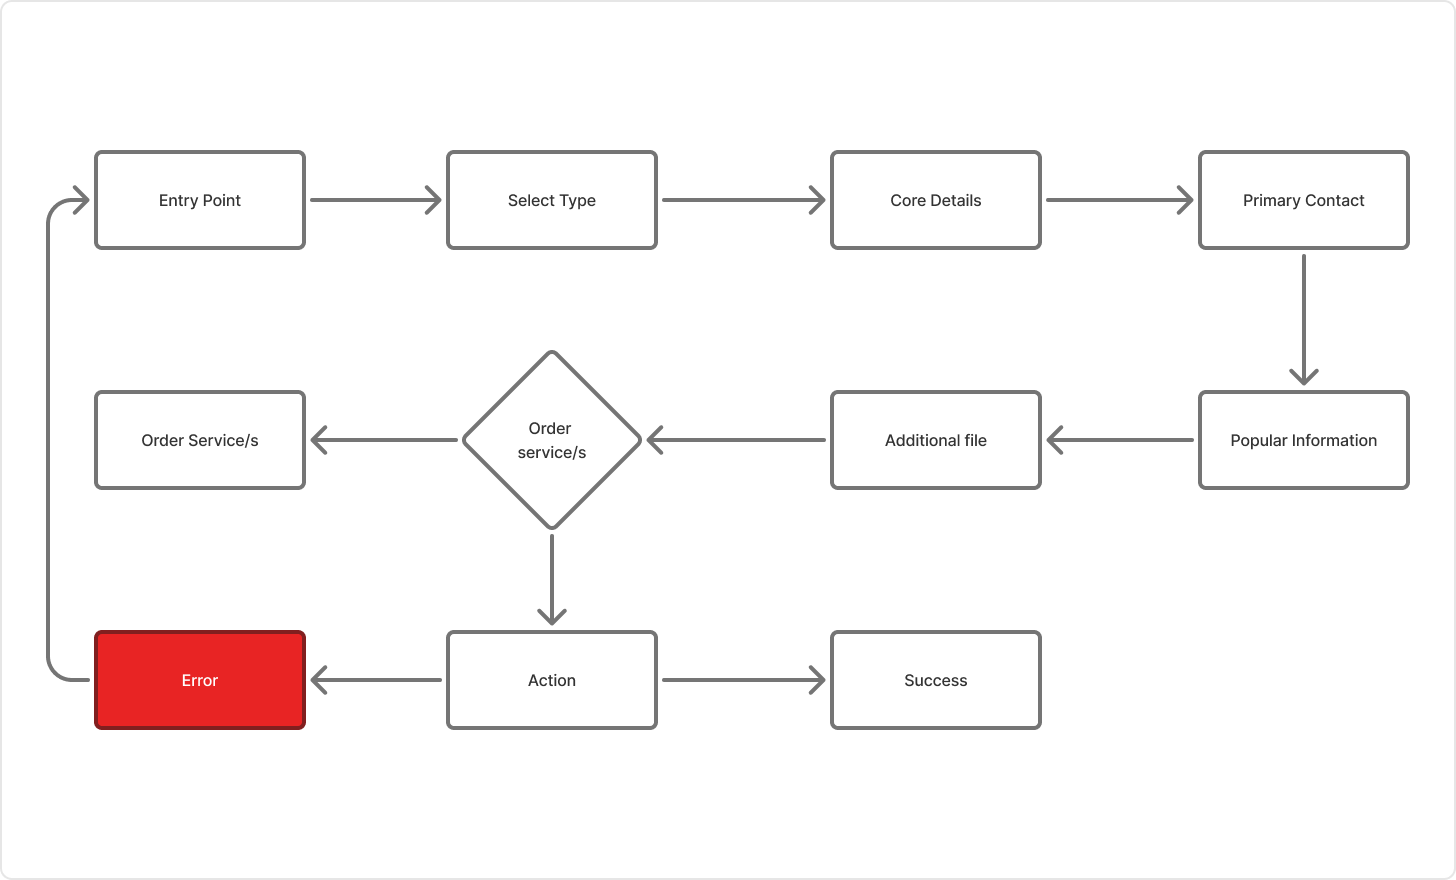
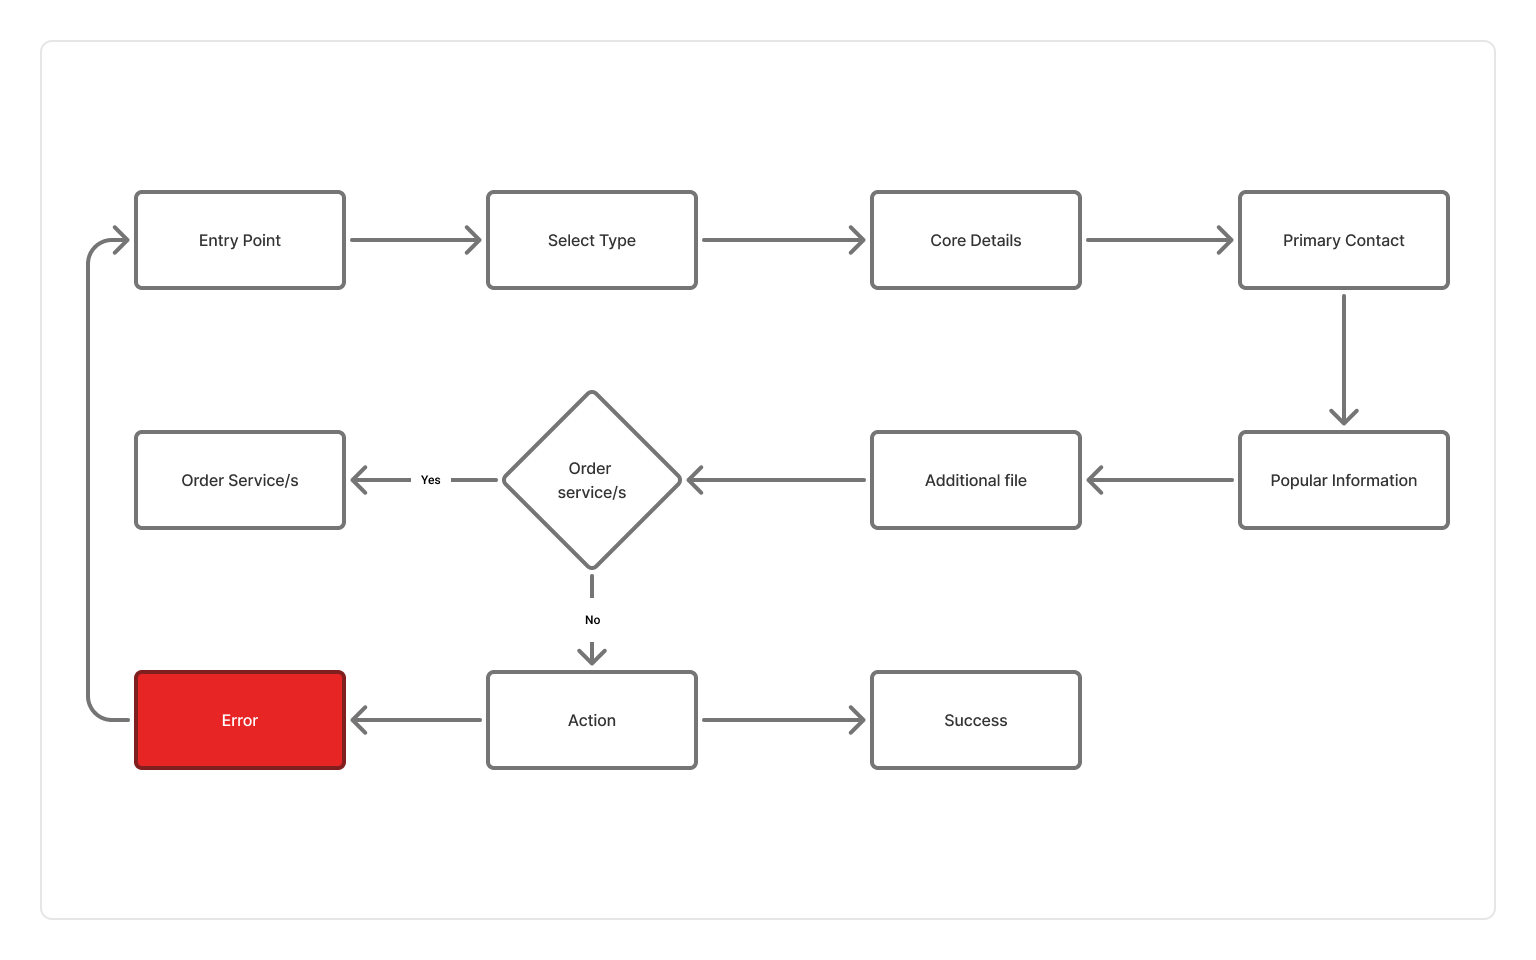
23/10/2

diff --git a/src/pages/DesignSystemProjectPage.tsx b/src/pages/DesignSystemProjectPage.tsx
@@ -12,9 +12,9 @@ interface DesignSystemProjectPageProps {
 }
 
 const projectFacts = [
-  ['My role', 'Product design · system definition'],
-  ['In collaboration', 'Cross-functional partners'],
-  ['Timeframe', 'Ongoing system evolution'],
+  ['My role', 'Created a design system for the entire platform'],
+  ['In collaboration', 'Design manager and development team'],
+  ['Timeframe', '2 months'],
   ['Focus', 'Design systems · Components · Iconography'],
 ];
 
@@ -120,9 +120,16 @@ export const DesignSystemProjectPage: React.FC<DesignSystemProjectPageProps> = (
         </div>
         <div className="space-y-6">
           <p className="max-w-2xl text-lg leading-relaxed text-slate-600 md:text-xl">
-            As products grow, small inconsistencies compound: similar controls behave differently, teams repeat design decisions, and one-off fixes become design debt. The system establishes shared foundations and reusable patterns so teams can ship coherent experiences without slowing down delivery. Its goal is consistency with enough flexibility for distinct workflow needs.
+            I created a design system for the entire platform so its screens and workflows could stay visually consistent. I collaborated with the design manager and development team to define shared foundations and reusable patterns that fit the platform’s needs.
           </p>
-          <MediaPlaceholder label="Project context and challenge" className="aspect-[16/10]" />
+      <figure className="overflow-hidden rounded-2xl border border-slate-200 bg-white">
+        <img
+          src="/projects/design-system-components.png"
+          alt="Design system component library showing radio buttons, checkboxes, switches, form fields, dropdowns, calendars, and button states."
+          loading="lazy"
+          className="block h-auto w-full"
+        />
+      </figure>
         </div>
       </div>
     </SectionReveal>
@@ -135,7 +142,7 @@ export const DesignSystemProjectPage: React.FC<DesignSystemProjectPageProps> = (
         </div>
         <div>
           <p className="mb-8 max-w-2xl text-lg leading-relaxed text-slate-600 md:text-xl">
-            The system prioritizes common, high-frequency interface needs and makes the rules behind reuse explicit. Foundations create a shared visual language; component guidance covers behavior and states; icon rules keep meaning and visual weight consistent. Reuse speeds up delivery and review, while documented exceptions prevent the system from forcing a poor fit.
+            Over two months, I worked with the design manager and development team to establish the system’s foundations, reusable components, and icon rules. The shared color, type, spacing, hierarchy, and component states give the full platform a consistent visual language while supporting its different workflows.
           </p>
           <div className="divide-y divide-slate-200 border-y border-slate-200">
             {approachItems.map(([number, title, description]) => (
@@ -161,7 +168,7 @@ export const DesignSystemProjectPage: React.FC<DesignSystemProjectPageProps> = (
         </div>
         <div className="space-y-5">
           <p className="max-w-2xl text-lg leading-relaxed text-slate-600 md:text-xl">
-            A shared foundation makes hierarchy and interaction patterns more predictable across product areas. Designers can focus effort on workflow-specific problems, while developers have clearer references for expected states. Consistent components also make omissions and edge cases easier to spot during review.
+            The system brings the platform’s visual and interaction patterns into one consistent foundation. Reusable components and documented states give designers and developers a shared reference as they work on product-specific needs.
           </p>
           <MediaPlaceholder label="The system applied in context" className="aspect-[16/10]" />
         </div>
@@ -176,7 +183,7 @@ export const DesignSystemProjectPage: React.FC<DesignSystemProjectPageProps> = (
         </div>
         <div>
           <p className="mb-8 max-w-2xl text-lg leading-relaxed text-slate-600 md:text-xl">
-            The system is intended to reduce repeat decisions and visual drift by making the common path easy to reuse. Its value comes from adoption, clear ownership, and regular maintenance—not from the component library alone.
+            The platform-wide system gives the design and development teams a consistent starting point for product work. Shared foundations and reusable components reduce the need to redefine patterns from one area of the platform to another.
           </p>
           <div className="grid gap-4 md:grid-cols-3">
             {outcomeItems.map(([title, description]) => (

diff --git a/src/components/ContactSection.tsx b/src/components/ContactSection.tsx
@@ -8,27 +8,21 @@ interface ContactSectionProps {
 export const ContactSection: React.FC<ContactSectionProps> = ({ onOpenChat }) => (
   <section
     id="contact"
-    className="sticky top-0 z-10 mx-auto flex w-[calc(100%-24px)] max-w-[calc(72rem-24px)] flex-col justify-start gap-8 px-6 pt-0 pb-24 [container-type:inline-size] sm:gap-10 sm:px-10 sm:pt-0 sm:pb-28 lg:gap-12 lg:px-16 lg:pt-0 lg:pb-32"
+    className="group sticky top-0 z-10 mx-auto flex w-[calc(100%-24px)] max-w-[calc(72rem-24px)] flex-col justify-start gap-8 px-6 pt-0 pb-24 [container-type:inline-size] sm:gap-10 sm:px-10 sm:pt-0 sm:pb-28 lg:gap-12 lg:px-16 lg:pt-0 lg:pb-32"
   >
-    <div className="-translate-y-2 flex items-center justify-between gap-4">
-      <h2 className="m-0 min-w-0 flex-1 whitespace-nowrap text-[clamp(2rem,13.5cqw,9.5rem)] font-black leading-[0.82] tracking-[-0.04em] text-[#111111]">
-        <button
-          type="button"
-          onClick={onOpenChat}
-          aria-label="Open Let’s talk chat"
-          className="whitespace-nowrap border-0 bg-transparent p-0 text-left font-semibold cursor-pointer no-underline transition-colors duration-200 hover:text-neutral-800"
-        >
-          Let’s talk
-        </button>
+    <div className="pointer-events-none -translate-y-2 flex items-center justify-between gap-4">
+      <h2 className="m-0 min-w-0 flex-1 whitespace-nowrap text-[clamp(2rem,13.5cqw,9.5rem)] font-black leading-[0.82] tracking-[-0.04em] text-[#111111] transition-colors duration-200 group-hover:text-neutral-800">
+        Let’s talk
       </h2>
-      <button
-        type="button"
-        onClick={onOpenChat}
-        aria-label="Open Let’s talk chat"
-        className="inline-flex shrink-0 border-0 bg-transparent p-0 text-[#111111] transition-transform hover:translate-x-1 hover:-translate-y-1"
-      >
+      <span className="inline-flex shrink-0 text-[#111111] transition-transform group-hover:translate-x-1 group-hover:-translate-y-1">
         <ArrowUpRight className="h-10 w-10 stroke-[1.5] sm:h-14 sm:w-14 lg:h-16 lg:w-16 2xl:h-20 2xl:w-20" aria-hidden="true" />
-      </button>
+      </span>
     </div>
+    <button
+      type="button"
+      onClick={onOpenChat}
+      aria-label="Open Let’s talk chat"
+      className="absolute inset-0 z-20 cursor-pointer rounded-xl focus-visible:outline-2 focus-visible:outline-offset-4 focus-visible:outline-[#2b35ee]"
+    />
   </section>
 );

diff --git a/src/components/ProjectCard.tsx b/src/components/ProjectCard.tsx
@@ -32,7 +32,7 @@ export const ProjectCard: React.FC<ProjectCardProps> = ({
   if (variant === 'editorial') {
     const stories: Record<string, { headline: string; person: string; decision: string; shipped: string }> = {
       roushani: { headline: 'Make invoicing feel effortless.', person: 'Small businesses lose time repeating the same billing work.', decision: 'Save the details. Keep every invoice simple.', shipped: 'A mobile-first invoicing product, from concept to live MVP.' },
-      'design-system-icons': { headline: 'One system for components and icons.', person: 'A project exploring a consistent visual language.', decision: 'Build reusable components and a cohesive icon set.', shipped: 'A color system walkthrough, with the next project showing the work in product context.' },
+      'design-system-icons': { headline: 'One system for components and icons.', person: 'The whole platform needed a consistent visual language.', decision: 'Create shared foundations and reusable components with the design manager and development team.', shipped: 'A platform-wide design system, developed over two months.' },
       umbrella: { headline: 'Make complex onboarding feel clear.', person: 'Enterprise teams need to collect detailed third-party information.', decision: 'Break a demanding process into clear, manageable steps.', shipped: 'A streamlined onboarding experience for enterprise workflows.' },
       bridge2business: { headline: 'Turn a website into a business tool.', person: 'Business owners need to understand the offer and act with confidence.', decision: 'Lead with clarity, useful proof, and a direct path to connect.', shipped: 'A focused B2B website redesign proposal.' },
       maxlence: { headline: 'Bring people and projects into focus.', person: 'Teams were managing connected work across fragmented tools.', decision: 'Give HR and project workflows a consistent, shared language.', shipped: 'A scalable SaaS experience and reusable design system.' },

diff --git a/src/data/portfolioData.ts b/src/data/portfolioData.ts
@@ -1065,10 +1065,10 @@ export const DEFAULT_CASE_STUDIES: CaseStudy[] = [
     tags: ["Design System", "Components", "Iconography"],
     heroImage: "",
     heroVideo: "/projects/color-system.mp4",
-    overview: "",
-    role: "",
-    team: "",
-    timeline: "",
+    overview: "I created a design system for the entire platform so product screens and workflows could stay consistent. I collaborated with the design manager and development team over two months, defining shared foundations, reusable components, and iconography for the platform.",
+    role: "Product Designer, platform-wide design system",
+    team: "Design Manager and Development Team",
+    timeline: "2 Months",
     beforeScreen: "",
     afterScreen: "",
     interviewsText: "",
